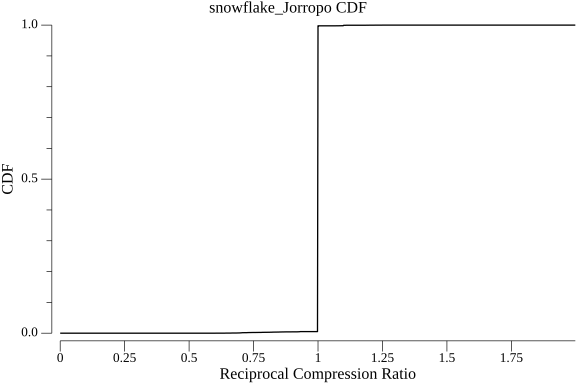
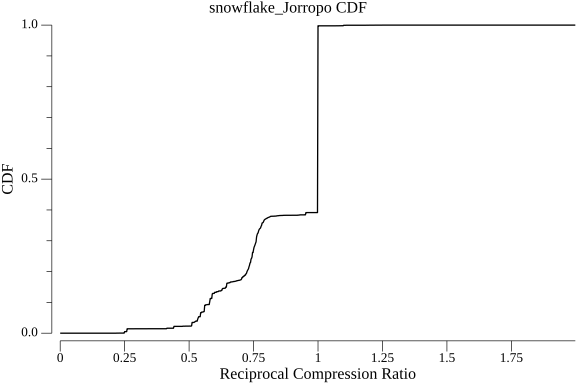
implement nodeinfo snowflake compressor

diff --git a/portnum_tunned.go b/portnum_tunned.go
@@ -1,6 +1,8 @@
 package main
 
 import (
+	"encoding/binary"
+	"fmt"
 	"log"
 
 	"github.com/Jorropo/meshtastic-compression-contest/unishox2"
@@ -9,13 +11,15 @@ import (
 
 const (
 	TEXT_MESSAGE_APP = 1
+	NODEINFO_APP     = 4
 	COMPRESSED       = 7
 )
 
 type compressorNum uint8
 
 const (
-	TEXT_MESSAGE_APP_COMPRESSOR compressorNum = 1
+	TEXT_MESSAGE_APP_COMPRESSOR compressorNum = iota + 1
+	NODEINFO_COMPRESSOR
 )
 
 func explodePacketForPortnumPayloadSubstitution(substitute func(portnum uint64, from, to uint32, payload []byte) (newPortnum uint64, newPayload []byte, changed bool)) compressor {
@@ -116,9 +120,204 @@ func compressPerPortnumTuned(portnum uint64, from, to uint32, payload []byte) (u
 		if err != nil {
 			log.Fatalf("unishox2 compression failed: %v", err)
 		}
+	case NODEINFO_APP:
+		portnum = COMPRESSED
+		compressedPortnum = NODEINFO_COMPRESSOR
+		var ok bool
+		compressedPayload, ok = nodeinfoCompression2(from, payload)
+		if !ok {
+			return 0, nil, false
+		}
 	default:
 		return 0, nil, false
 	}
 
 	return COMPRESSED, append([]byte{byte(compressedPortnum)}, compressedPayload...), true
+}
+
+func nodeinfoCompression2(from uint32, payload []byte) ([]byte, bool) {
+	// parse packet
+	var id []byte
+	var macaddress [6]byte
+	var shortname []byte
+	var hammode, isUnmessageable bool
+	var longname []byte
+	var eccpubkey [32]byte
+	var hwmodel uint64
+	var devicerole uint64
+
+	user := payload
+	for len(user) > 0 {
+		num, typ, n := protowire.ConsumeTag(user)
+		if n < 0 {
+			return nil, false
+		}
+		user = user[n:]
+
+		switch num {
+		case 1: // id
+			if typ != protowire.BytesType {
+				return nil, false
+			}
+			id, n = protowire.ConsumeBytes(user)
+			if n < 0 {
+				return nil, false
+			}
+			user = user[n:]
+		case 2: // long name
+			if typ != protowire.BytesType {
+				return nil, false
+			}
+			longname, n = protowire.ConsumeBytes(user)
+			if n < 0 {
+				return nil, false
+			}
+			user = user[n:]
+		case 3: // short name
+			if typ != protowire.BytesType {
+				return nil, false
+			}
+			shortname, n = protowire.ConsumeBytes(user)
+			if n < 0 {
+				return nil, false
+			}
+			user = user[n:]
+		case 4: // macaddress
+			if typ != protowire.BytesType {
+				return nil, false
+			}
+			v, n := protowire.ConsumeBytes(user)
+			if n < 0 || len(v) != len(macaddress) {
+				return nil, false
+			}
+			copy(macaddress[:], v)
+			user = user[n:]
+		case 5: // hw model
+			if typ != protowire.VarintType {
+				return nil, false
+			}
+			hwmodel, n = protowire.ConsumeVarint(user)
+			if n < 0 {
+				return nil, false
+			}
+			user = user[n:]
+		case 6: // is licensed
+			if typ != protowire.VarintType {
+				return nil, false
+			}
+			v, n := protowire.ConsumeVarint(user)
+			if n < 0 || (v != 0 && v != 1) {
+				return nil, false
+			}
+			user = user[n:]
+			hammode = protowire.DecodeBool(v)
+		case 7: // device role
+			if typ != protowire.VarintType {
+				return nil, false
+			}
+			devicerole, n = protowire.ConsumeVarint(user)
+			if n < 0 {
+				return nil, false
+			}
+			user = user[n:]
+		case 8: // ecc public key
+			if typ != protowire.BytesType {
+				return nil, false
+			}
+			v, n := protowire.ConsumeBytes(user)
+			if n < 0 || len(v) != len(eccpubkey) {
+				return nil, false
+			}
+			copy(eccpubkey[:], v)
+			user = user[n:]
+		case 9: // is unmessageable
+			if typ != protowire.VarintType {
+				return nil, false
+			}
+			v, n := protowire.ConsumeVarint(user)
+			if n < 0 || (v != 0 && v != 1) {
+				return nil, false
+			}
+			user = user[n:]
+			isUnmessageable = protowire.DecodeBool(v)
+		default:
+			return nil, false
+		}
+	}
+
+	// Format:
+	// 0khsssmi xullllll [1: id length |←: id payload ] [2: higher macaddress ] [4: lower macaddress ] [s: short name ] [l: long name ] [32: ecc public key ] [¿: varuint hwmodel ] [¿: varuint device role ]
+	// header bitfields:
+	//   0:
+	//     i - 0 = id default from source, 1 = id present // TODO: ever since 7c5e2bc95acf81a0997169e7a4243d2a0af963e7 nodes do not care about this field, just don't bother with it ?
+	//     m - 0 = lower macaddress default from source, 1 = lower macaddress present
+	//     sss - length of the short name (7 means default from source)
+	//     h - 1 = licensed ham mode, 0 = normal mode
+	//     k - 0 = no ecc public key, 1 = ecc public key present
+	//     0 - unishox2 is not used
+	//   1:
+	//     llllll - length of the long name (63 means default from source)
+	//     u - 1 = is unmessageable, 0 = normal
+	//     x - reserved for future use
+
+	compressed := make([]byte, 2, 256)
+
+	if hammode {
+		compressed[0] |= 1 << 5
+	}
+
+	if isUnmessageable {
+		compressed[1] |= 1 << 6
+	}
+
+	defaultID := fmt.Sprintf("!%08x", from)
+	if string(id) != defaultID {
+		compressed[0] |= 1 << 0
+		if len(id) >= 256 {
+			return nil, false
+		}
+		compressed = append(compressed, byte(len(id)))
+		compressed = append(compressed, id...)
+	}
+
+	compressed = append(compressed, macaddress[0:2]...)
+	if binary.BigEndian.Uint32(macaddress[2:]) != from {
+		compressed[0] |= 1 << 1
+		compressed = append(compressed, macaddress[:]...)
+	}
+
+	defaultShortname := fmt.Sprintf("%04x", from&0xffff)
+	if string(shortname) != defaultShortname {
+		if len(shortname) >= 7 {
+			return nil, false
+		}
+		compressed[0] |= byte(len(shortname)) << 2
+		compressed = append(compressed, shortname...)
+	} else {
+		compressed[0] |= 7 << 2
+	}
+
+	defaultLongName := fmt.Sprintf("Meshtastic %04x", from&0xffff)
+	if string(longname) != defaultLongName {
+		if len(longname) >= 63 {
+			return nil, false
+		}
+		compressed[1] |= byte(len(longname))
+		compressed = append(compressed, longname...)
+	} else {
+		compressed[1] |= 63
+	}
+
+	if eccpubkey != [32]byte{} {
+		compressed[0] |= 1 << 6
+		compressed = append(compressed, eccpubkey[:]...)
+	}
+
+	compressed = binary.AppendUvarint(compressed, hwmodel)
+
+	compressed = binary.AppendUvarint(compressed, devicerole)
+
+	return compressed, true
+
+	// TODO: implement mode with unishox2 compression for strings
 }

diff --git a/README.md b/README.md
@@ -38,9 +38,9 @@ One **bellow** 1 means the compressed data is **smaller** than the uncompressed 
 
 | Compressor | Average Reciprocal Compression Ratio |
 |------------|--------------------------------------|
+| `snowflake_Jorropo` | 0.8239 |
 | `unishox2_meshtastic` | 0.9987 |
 | `shoco_TextEn_tmthrgd_Jorropo` | 0.9987 |
-| `snowflake_Jorropo` | 0.9988 |
 | `smaz_cespare_Jorropo` | 0.9990 |
 | `shoco_WordsEn_tmthrgd_Jorropo` | 0.9991 |
 | `shoco_FilePath_tmthrgd_Jorropo` | 0.9993 |
@@ -69,6 +69,12 @@ One **bellow** 1 means the compressed data is **smaller** than the uncompressed 
 
 The following graphs show the cumulative distribution function (CDF) of the reciprocal compression ratios for each compressor.
 
+### `snowflake_Jorropo`
+
+![snowflake_Jorropo only TEXT_MESSAGE_APP CDF](graphs/snowflake_Jorropo_only_TEXT_MESSAGE_APP_cdf.png)
+
+![snowflake_Jorropo CDF](graphs/snowflake_Jorropo_cdf.png)
+
 ### `unishox2_meshtastic`
 
 ![unishox2_meshtastic only TEXT_MESSAGE_APP CDF](graphs/unishox2_meshtastic_only_TEXT_MESSAGE_APP_cdf.png)
@@ -80,12 +86,6 @@ The following graphs show the cumulative distribution function (CDF) of the reci
 ![shoco_TextEn_tmthrgd_Jorropo only TEXT_MESSAGE_APP CDF](graphs/shoco_TextEn_tmthrgd_Jorropo_only_TEXT_MESSAGE_APP_cdf.png)
 
 ![shoco_TextEn_tmthrgd_Jorropo CDF](graphs/shoco_TextEn_tmthrgd_Jorropo_cdf.png)
-
-### `snowflake_Jorropo`
-
-![snowflake_Jorropo only TEXT_MESSAGE_APP CDF](graphs/snowflake_Jorropo_only_TEXT_MESSAGE_APP_cdf.png)
-
-![snowflake_Jorropo CDF](graphs/snowflake_Jorropo_cdf.png)
 
 ### `smaz_cespare_Jorropo`
 
